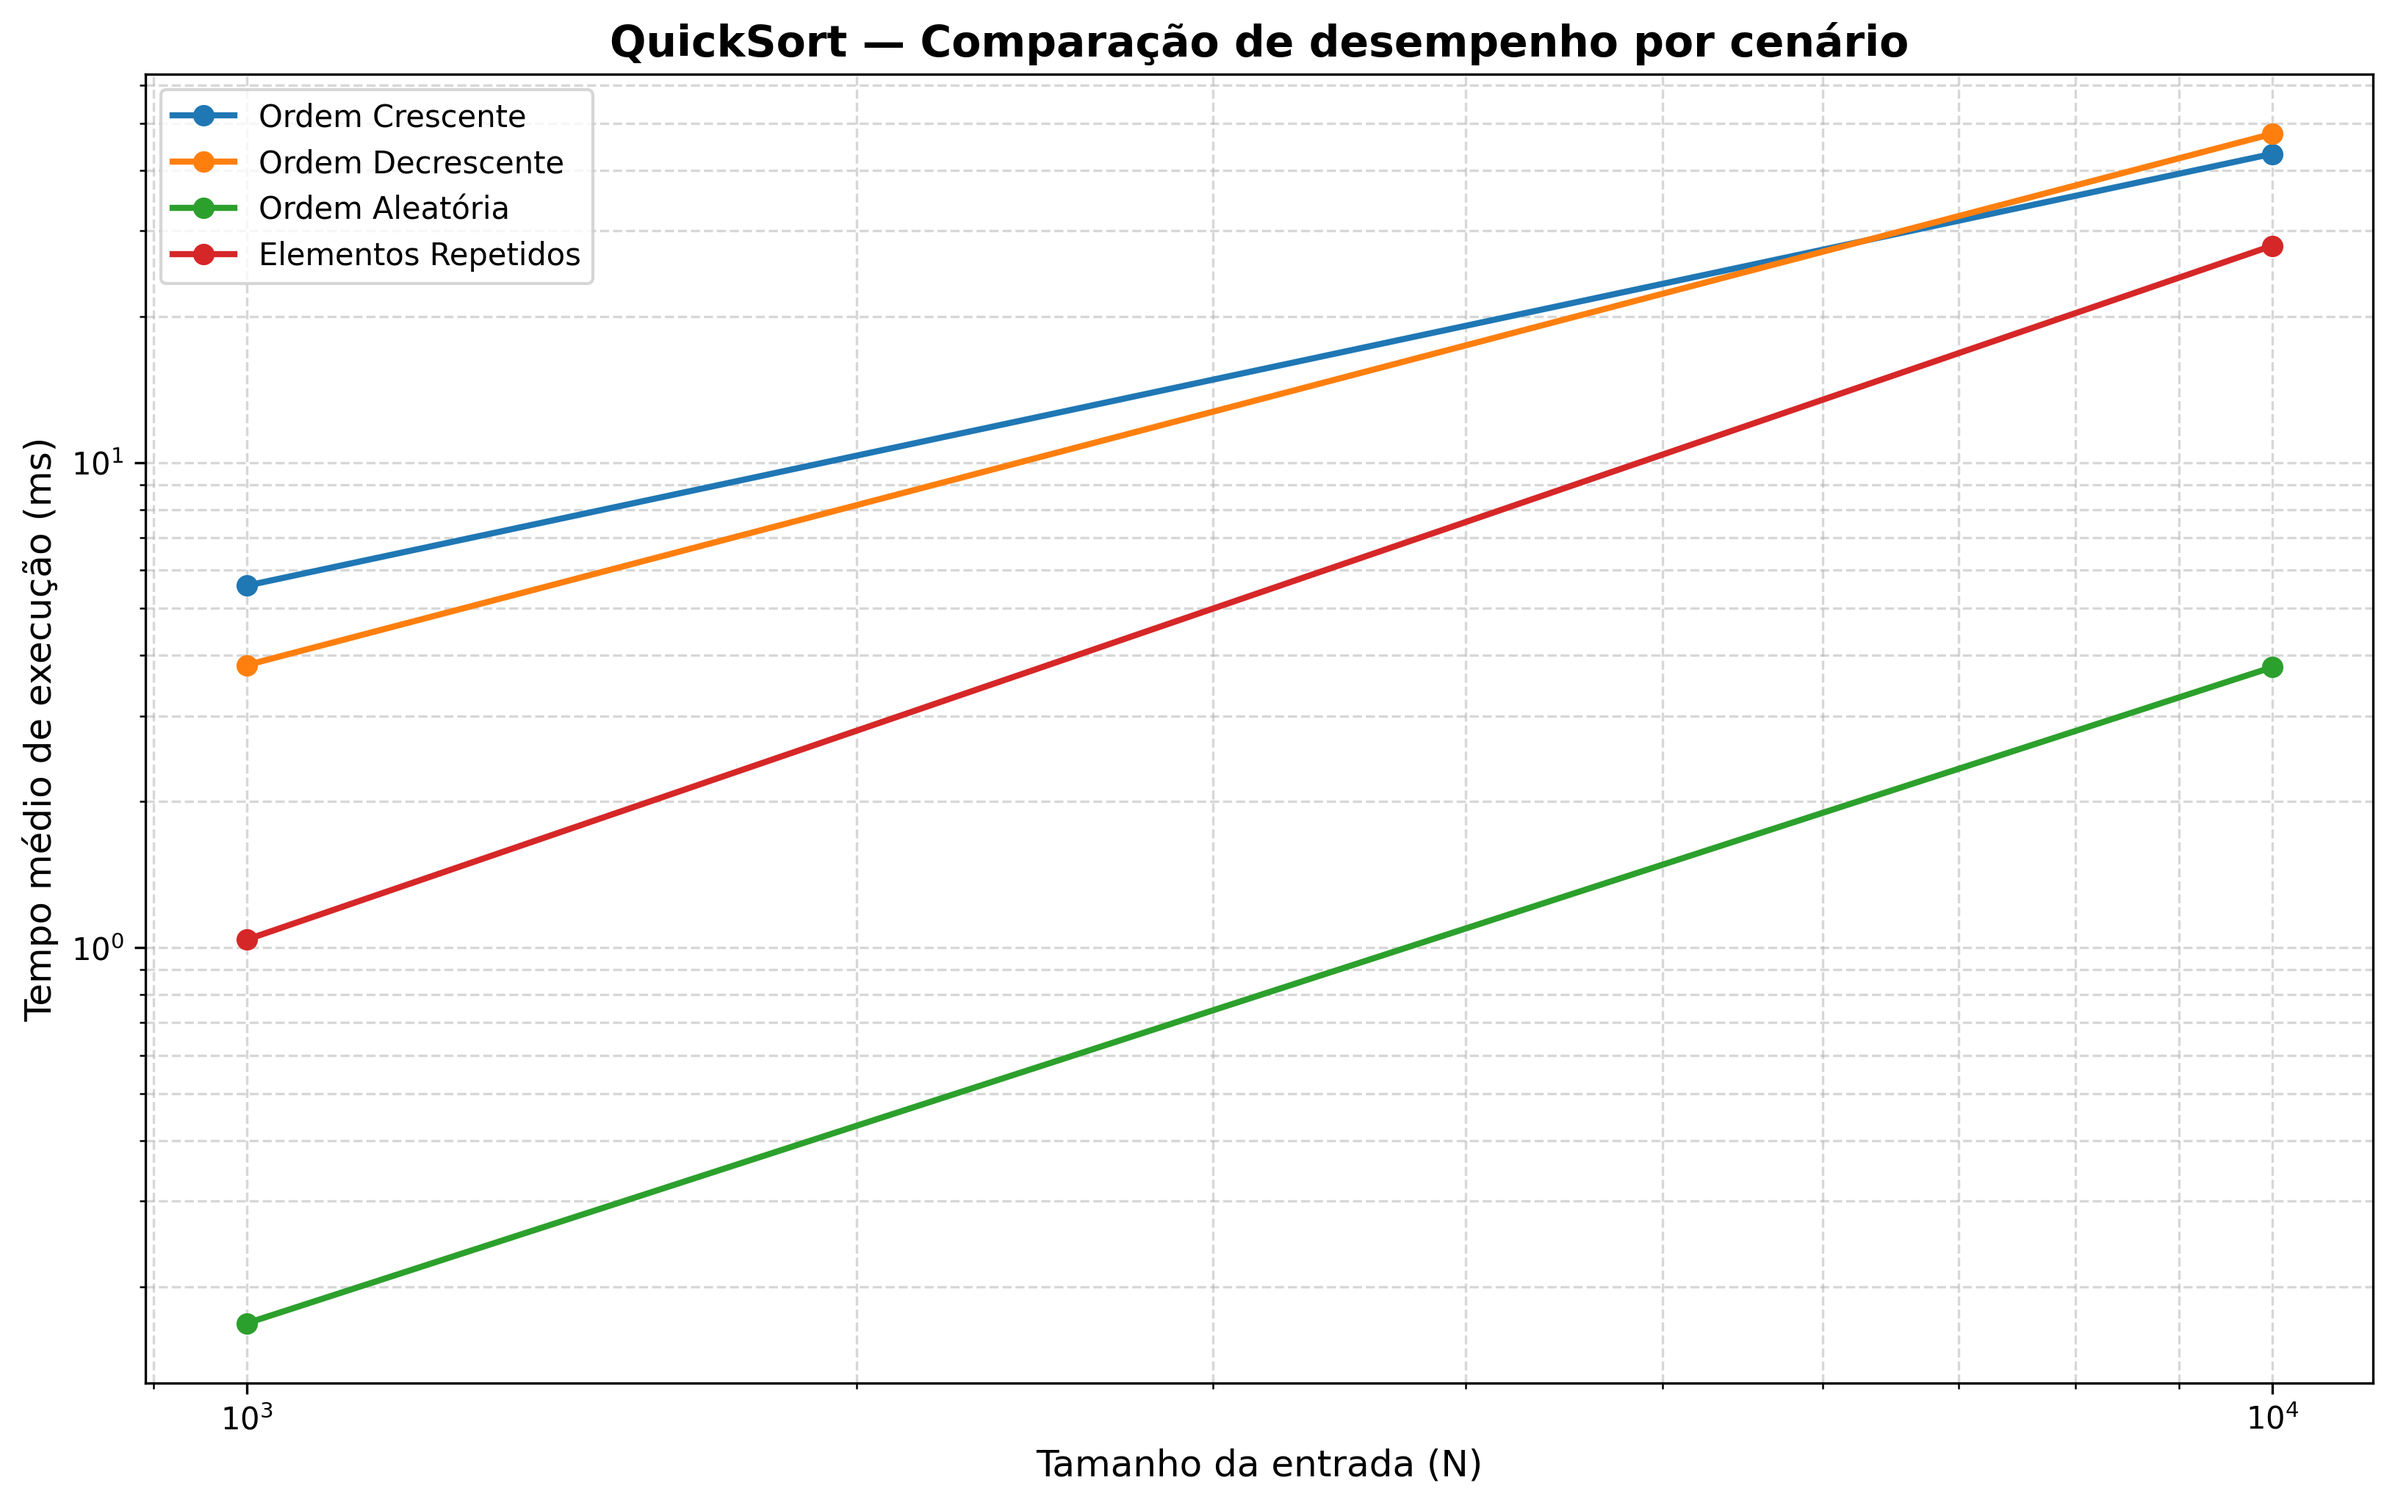
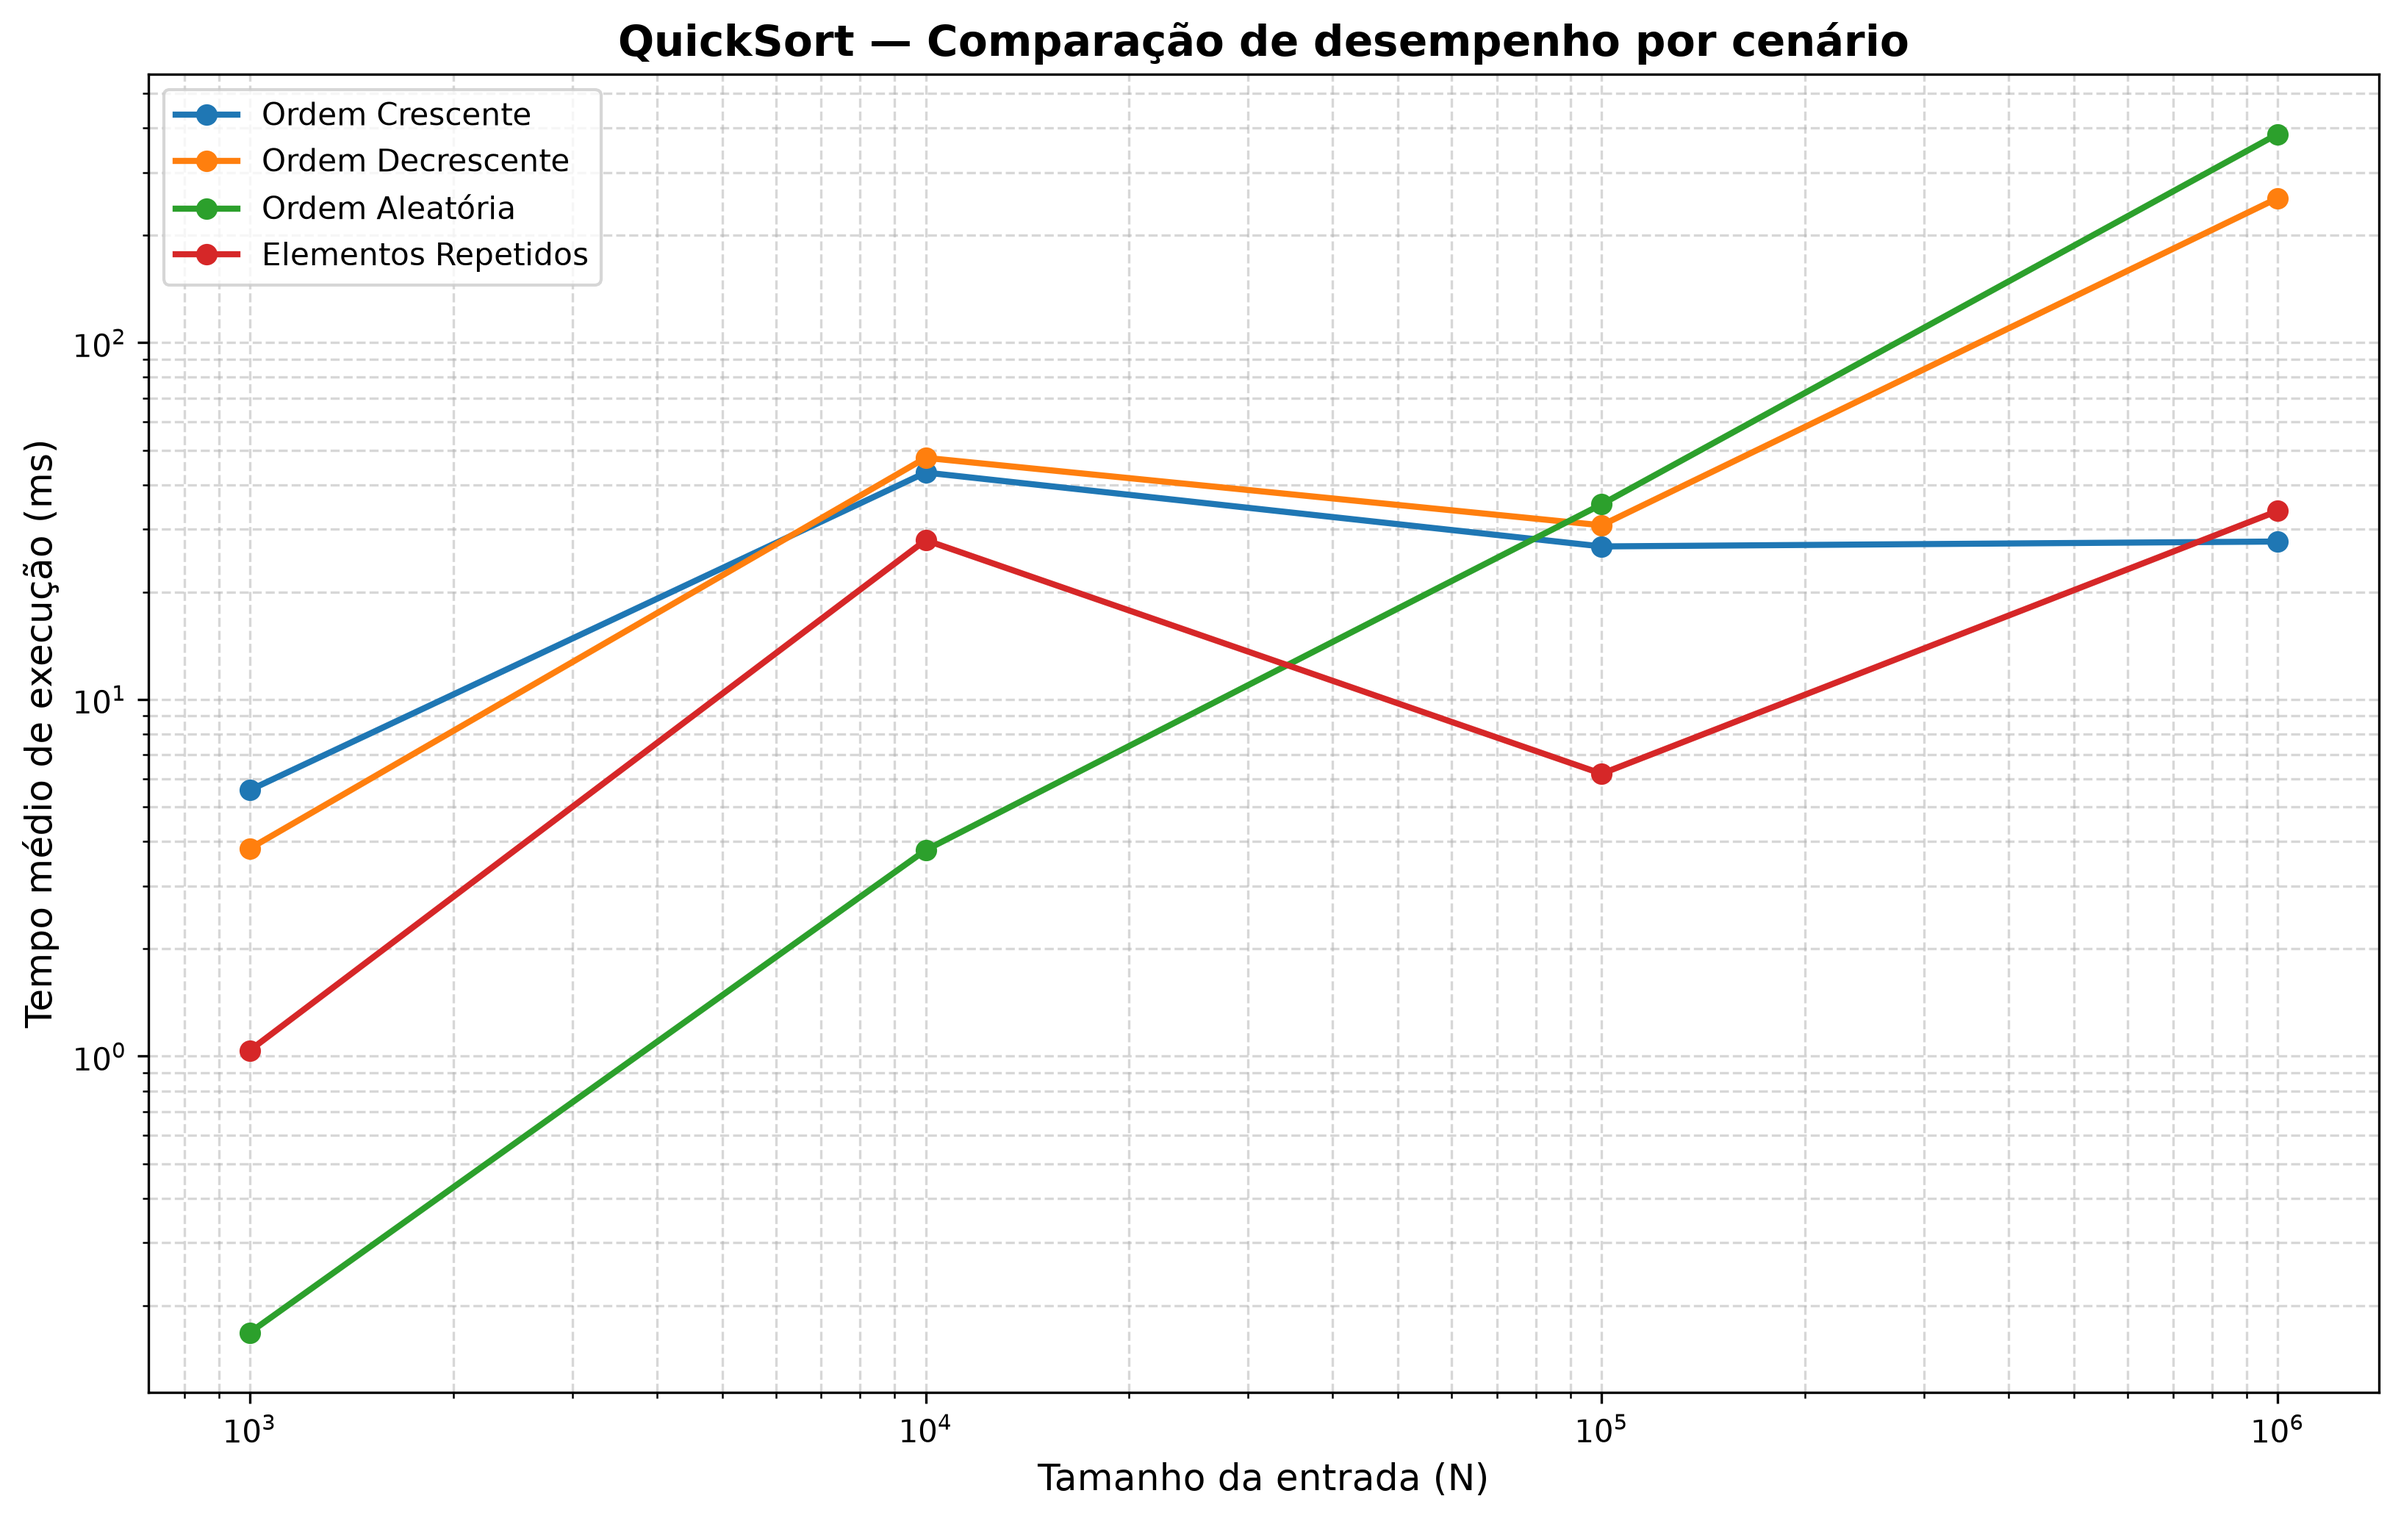
update

diff --git a/Codigo/Quick.java b/Codigo/Quick.java
@@ -1,36 +1,46 @@
 public class Quick extends Ordenador {
+
     @Override
     public <T extends Comparable<T>> void ordenar(T[] arr) {
         quickSort(arr, 0, arr.length - 1);
     }
 
     private <T extends Comparable<T>> void quickSort(T[] arr, int inicio, int fim) {
-        if (inicio < fim) {
-            int pivo = particionar(arr, inicio, fim);
+        while (inicio < fim) {
+            T pivo = arr[fim];
 
-            quickSort(arr, inicio, pivo - 1);
-            quickSort(arr, pivo + 1, fim);
+            int menor = inicio;
+            int atual = inicio;
+            int maior = fim;
+
+            while (atual <= maior) {
+                int comparacao = arr[atual].compareTo(pivo);
+
+                if (comparacao < 0) {
+                    trocar(arr, menor, atual);
+                    menor++;
+                    atual++;
+                } else if (comparacao > 0) {
+                    trocar(arr, atual, maior);
+                    maior--;
+                } else {
+                    atual++;
+                }
+            }
+
+            if (menor - inicio < fim - maior) {
+                quickSort(arr, inicio, menor - 1);
+                inicio = maior + 1;
+            } else {
+                quickSort(arr, maior + 1, fim);
+                fim = menor - 1;
+            }
         }
     }
 
-    private <T extends Comparable<T>> int particionar(T[] arr, int inicio, int fim) {
-        T pivo = arr[fim];
-        int i = inicio - 1;
-
-        for (int j = inicio; j < fim; j++) {
-            if (arr[j].compareTo(pivo) <= 0) {
-                i++;
-
-                T temp = arr[i];
-                arr[i] = arr[j];
-                arr[j] = temp;
-            }
-        }
-
-        T temp = arr[i + 1];
-        arr[i + 1] = arr[fim];
-        arr[fim] = temp;
-
-        return i + 1;
+    private <T extends Comparable<T>> void trocar(T[] arr, int i, int j) {
+        T temp = arr[i];
+        arr[i] = arr[j];
+        arr[j] = temp;
     }
 }
